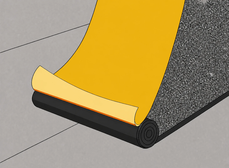
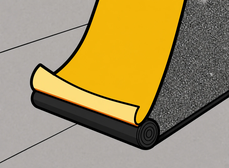
常温粘着の工法アイコンを新しい絵（黒い輪郭つき）に差し替え
- icons/kou_nenchaku.png を、同じ構図で黒い輪郭を付けた版に上書き（229×168）
- 同じ名前の差し替えなので、URLの版名（?v=）で入れ替わる。版 2026-09-06k
  実測：一覧100件中67件にアイコン、うち15件が常温粘着

Claude-Session: https://claude.ai/code/session_01CPXDjBXR9oHdsahcXZfCt8

diff --git a/index.html b/index.html
@@ -393,7 +393,7 @@ nav, nav#nav{overflow:visible; padding-top:2px;}
 
 <!-- 版の表示：スマホに届いている中身がどれかを、お互いに確認するための小さな印。
      不要になったらこの1行と #nnver の指定を消してください。 -->
-<div id="nnver">v2026-09-06 j</div>
+<div id="nnver">v2026-09-06 k</div>
 <script>
 /* ============ 実機の計測結果を表示（原因調査用・2026-07-28） ============
    数字の意味（単位はミリ秒）
@@ -744,7 +744,7 @@ nav, nav#nav{justify-content:center !important; padding-left:6px !important; pad
    古いものが出続けることがある。そこで ver.txt（数バイト）だけを
    毎回見に行き、公開版と違っていたら保存分を捨てて1回だけ読み直す。
    ★公開のたびに ver.txt と、下の NN_VER を同じ文字に更新すること。 */
-const NN_VER='2026-09-06j';
+const NN_VER='2026-09-06k';
 /* ============ 表示にかかった時間の記録（原因調査用・2026-07-28） ============
    スマホの実機でどこに時間がかかっているかを数字で出す。
    ・net  ＝ページを要求してから最初の返事が来るまで（通信の待ち）

diff --git a/camera.html b/camera.html
@@ -1271,7 +1271,7 @@ nav, nav#nav{justify-content:center !important; padding-left:6px !important; pad
    古いものが出続けることがある。そこで ver.txt（数バイト）だけを
    毎回見に行き、公開版と違っていたら保存分を捨てて1回だけ読み直す。
    ★公開のたびに ver.txt と、下の NN_VER を同じ文字に更新すること。 */
-const NN_VER='2026-09-06j';
+const NN_VER='2026-09-06k';
 /* ============ 表示にかかった時間の記録（原因調査用・2026-07-28） ============
    スマホの実機でどこに時間がかかっているかを数字で出す。
    ・net  ＝ページを要求してから最初の返事が来るまで（通信の待ち）

diff --git a/genba_map_v36.html b/genba_map_v36.html
@@ -4956,7 +4956,7 @@ nav, nav#nav{justify-content:center !important; padding-left:6px !important; pad
    古いものが出続けることがある。そこで ver.txt（数バイト）だけを
    毎回見に行き、公開版と違っていたら保存分を捨てて1回だけ読み直す。
    ★公開のたびに ver.txt と、下の NN_VER を同じ文字に更新すること。 */
-const NN_VER='2026-09-06j';
+const NN_VER='2026-09-06k';
 /* ============ 表示にかかった時間の記録（原因調査用・2026-07-28） ============
    スマホの実機でどこに時間がかかっているかを数字で出す。
    ・net  ＝ページを要求してから最初の返事が来るまで（通信の待ち）

diff --git a/hacchu.html b/hacchu.html
@@ -1065,7 +1065,7 @@ nav, nav#nav{justify-content:center !important; padding-left:6px !important; pad
    古いものが出続けることがある。そこで ver.txt（数バイト）だけを
    毎回見に行き、公開版と違っていたら保存分を捨てて1回だけ読み直す。
    ★公開のたびに ver.txt と、下の NN_VER を同じ文字に更新すること。 */
-const NN_VER='2026-09-06j';
+const NN_VER='2026-09-06k';
 /* ============ 表示にかかった時間の記録（原因調査用・2026-07-28） ============
    スマホの実機でどこに時間がかかっているかを数字で出す。
    ・net  ＝ページを要求してから最初の返事が来るまで（通信の待ち）

diff --git a/kirokucho_demo.html b/kirokucho_demo.html
@@ -4683,7 +4683,7 @@ nav, nav#nav{justify-content:center !important; padding-left:6px !important; pad
    古いものが出続けることがある。そこで ver.txt（数バイト）だけを
    毎回見に行き、公開版と違っていたら保存分を捨てて1回だけ読み直す。
    ★公開のたびに ver.txt と、下の NN_VER を同じ文字に更新すること。 */
-const NN_VER='2026-09-06j';
+const NN_VER='2026-09-06k';
 /* ============ 表示にかかった時間の記録（原因調査用・2026-07-28） ============
    スマホの実機でどこに時間がかかっているかを数字で出す。
    ・net  ＝ページを要求してから最初の返事が来るまで（通信の待ち）

diff --git a/kokkosho.html b/kokkosho.html
@@ -2377,7 +2377,7 @@ nav, nav#nav{justify-content:center !important; padding-left:6px !important; pad
    古いものが出続けることがある。そこで ver.txt（数バイト）だけを
    毎回見に行き、公開版と違っていたら保存分を捨てて1回だけ読み直す。
    ★公開のたびに ver.txt と、下の NN_VER を同じ文字に更新すること。 */
-const NN_VER='2026-09-06j';
+const NN_VER='2026-09-06k';
 /* ============ 表示にかかった時間の記録（原因調査用・2026-07-28） ============
    スマホの実機でどこに時間がかかっているかを数字で出す。
    ・net  ＝ページを要求してから最初の返事が来るまで（通信の待ち）

diff --git a/library.html b/library.html
@@ -1161,7 +1161,7 @@ nav, nav#nav{justify-content:center !important; padding-left:6px !important; pad
    古いものが出続けることがある。そこで ver.txt（数バイト）だけを
    毎回見に行き、公開版と違っていたら保存分を捨てて1回だけ読み直す。
    ★公開のたびに ver.txt と、下の NN_VER を同じ文字に更新すること。 */
-const NN_VER='2026-09-06j';
+const NN_VER='2026-09-06k';
 /* ============ 表示にかかった時間の記録（原因調査用・2026-07-28） ============
    スマホの実機でどこに時間がかかっているかを数字で出す。
    ・net  ＝ページを要求してから最初の返事が来るまで（通信の待ち）

diff --git a/shiyo_toroku.html b/shiyo_toroku.html
@@ -1645,7 +1645,7 @@ nav, nav#nav{justify-content:center !important; padding-left:6px !important; pad
    古いものが出続けることがある。そこで ver.txt（数バイト）だけを
    毎回見に行き、公開版と違っていたら保存分を捨てて1回だけ読み直す。
    ★公開のたびに ver.txt と、下の NN_VER を同じ文字に更新すること。 */
-const NN_VER='2026-09-06j';
+const NN_VER='2026-09-06k';
 /* ============ 表示にかかった時間の記録（原因調査用・2026-07-28） ============
    スマホの実機でどこに時間がかかっているかを数字で出す。
    ・net  ＝ページを要求してから最初の返事が来るまで（通信の待ち）

diff --git a/yougo.html b/yougo.html
@@ -1391,7 +1391,7 @@ nav, nav#nav{justify-content:center !important; padding-left:6px !important; pad
    古いものが出続けることがある。そこで ver.txt（数バイト）だけを
    毎回見に行き、公開版と違っていたら保存分を捨てて1回だけ読み直す。
    ★公開のたびに ver.txt と、下の NN_VER を同じ文字に更新すること。 */
-const NN_VER='2026-09-06j';
+const NN_VER='2026-09-06k';
 /* ============ 表示にかかった時間の記録（原因調査用・2026-07-28） ============
    スマホの実機でどこに時間がかかっているかを数字で出す。
    ・net  ＝ページを要求してから最初の返事が来るまで（通信の待ち）

diff --git a/zairyo_toroku.html b/zairyo_toroku.html
@@ -1525,7 +1525,7 @@ nav, nav#nav{justify-content:center !important; padding-left:6px !important; pad
    古いものが出続けることがある。そこで ver.txt（数バイト）だけを
    毎回見に行き、公開版と違っていたら保存分を捨てて1回だけ読み直す。
    ★公開のたびに ver.txt と、下の NN_VER を同じ文字に更新すること。 */
-const NN_VER='2026-09-06j';
+const NN_VER='2026-09-06k';
 /* ============ 表示にかかった時間の記録（原因調査用・2026-07-28） ============
    スマホの実機でどこに時間がかかっているかを数字で出す。
    ・net  ＝ページを要求してから最初の返事が来るまで（通信の待ち）

diff --git a/zumen_sekisan.html b/zumen_sekisan.html
@@ -5813,7 +5813,7 @@ nav, nav#nav{justify-content:center !important; padding-left:6px !important; pad
    古いものが出続けることがある。そこで ver.txt（数バイト）だけを
    毎回見に行き、公開版と違っていたら保存分を捨てて1回だけ読み直す。
    ★公開のたびに ver.txt と、下の NN_VER を同じ文字に更新すること。 */
-const NN_VER='2026-09-06j';
+const NN_VER='2026-09-06k';
 /* ============ 表示にかかった時間の記録（原因調査用・2026-07-28） ============
    スマホの実機でどこに時間がかかっているかを数字で出す。
    ・net  ＝ページを要求してから最初の返事が来るまで（通信の待ち）

diff --git a/sw.js b/sw.js
@@ -11,7 +11,7 @@
      ので、こちらの修正が確実に端末へ届く。
      ★ページを直したら、必ずこの番号を1つ上げること。
    ============================================================ */
-const CACHE='nn-cache-v373';
+const CACHE='nn-cache-v374';
 
 const ASSETS = [
   './icons/btn_d3_zin.png', './icons/btn_d3_zout.png', './icons/btn_d3_rl.png', './icons/btn_d3_rr.png',
